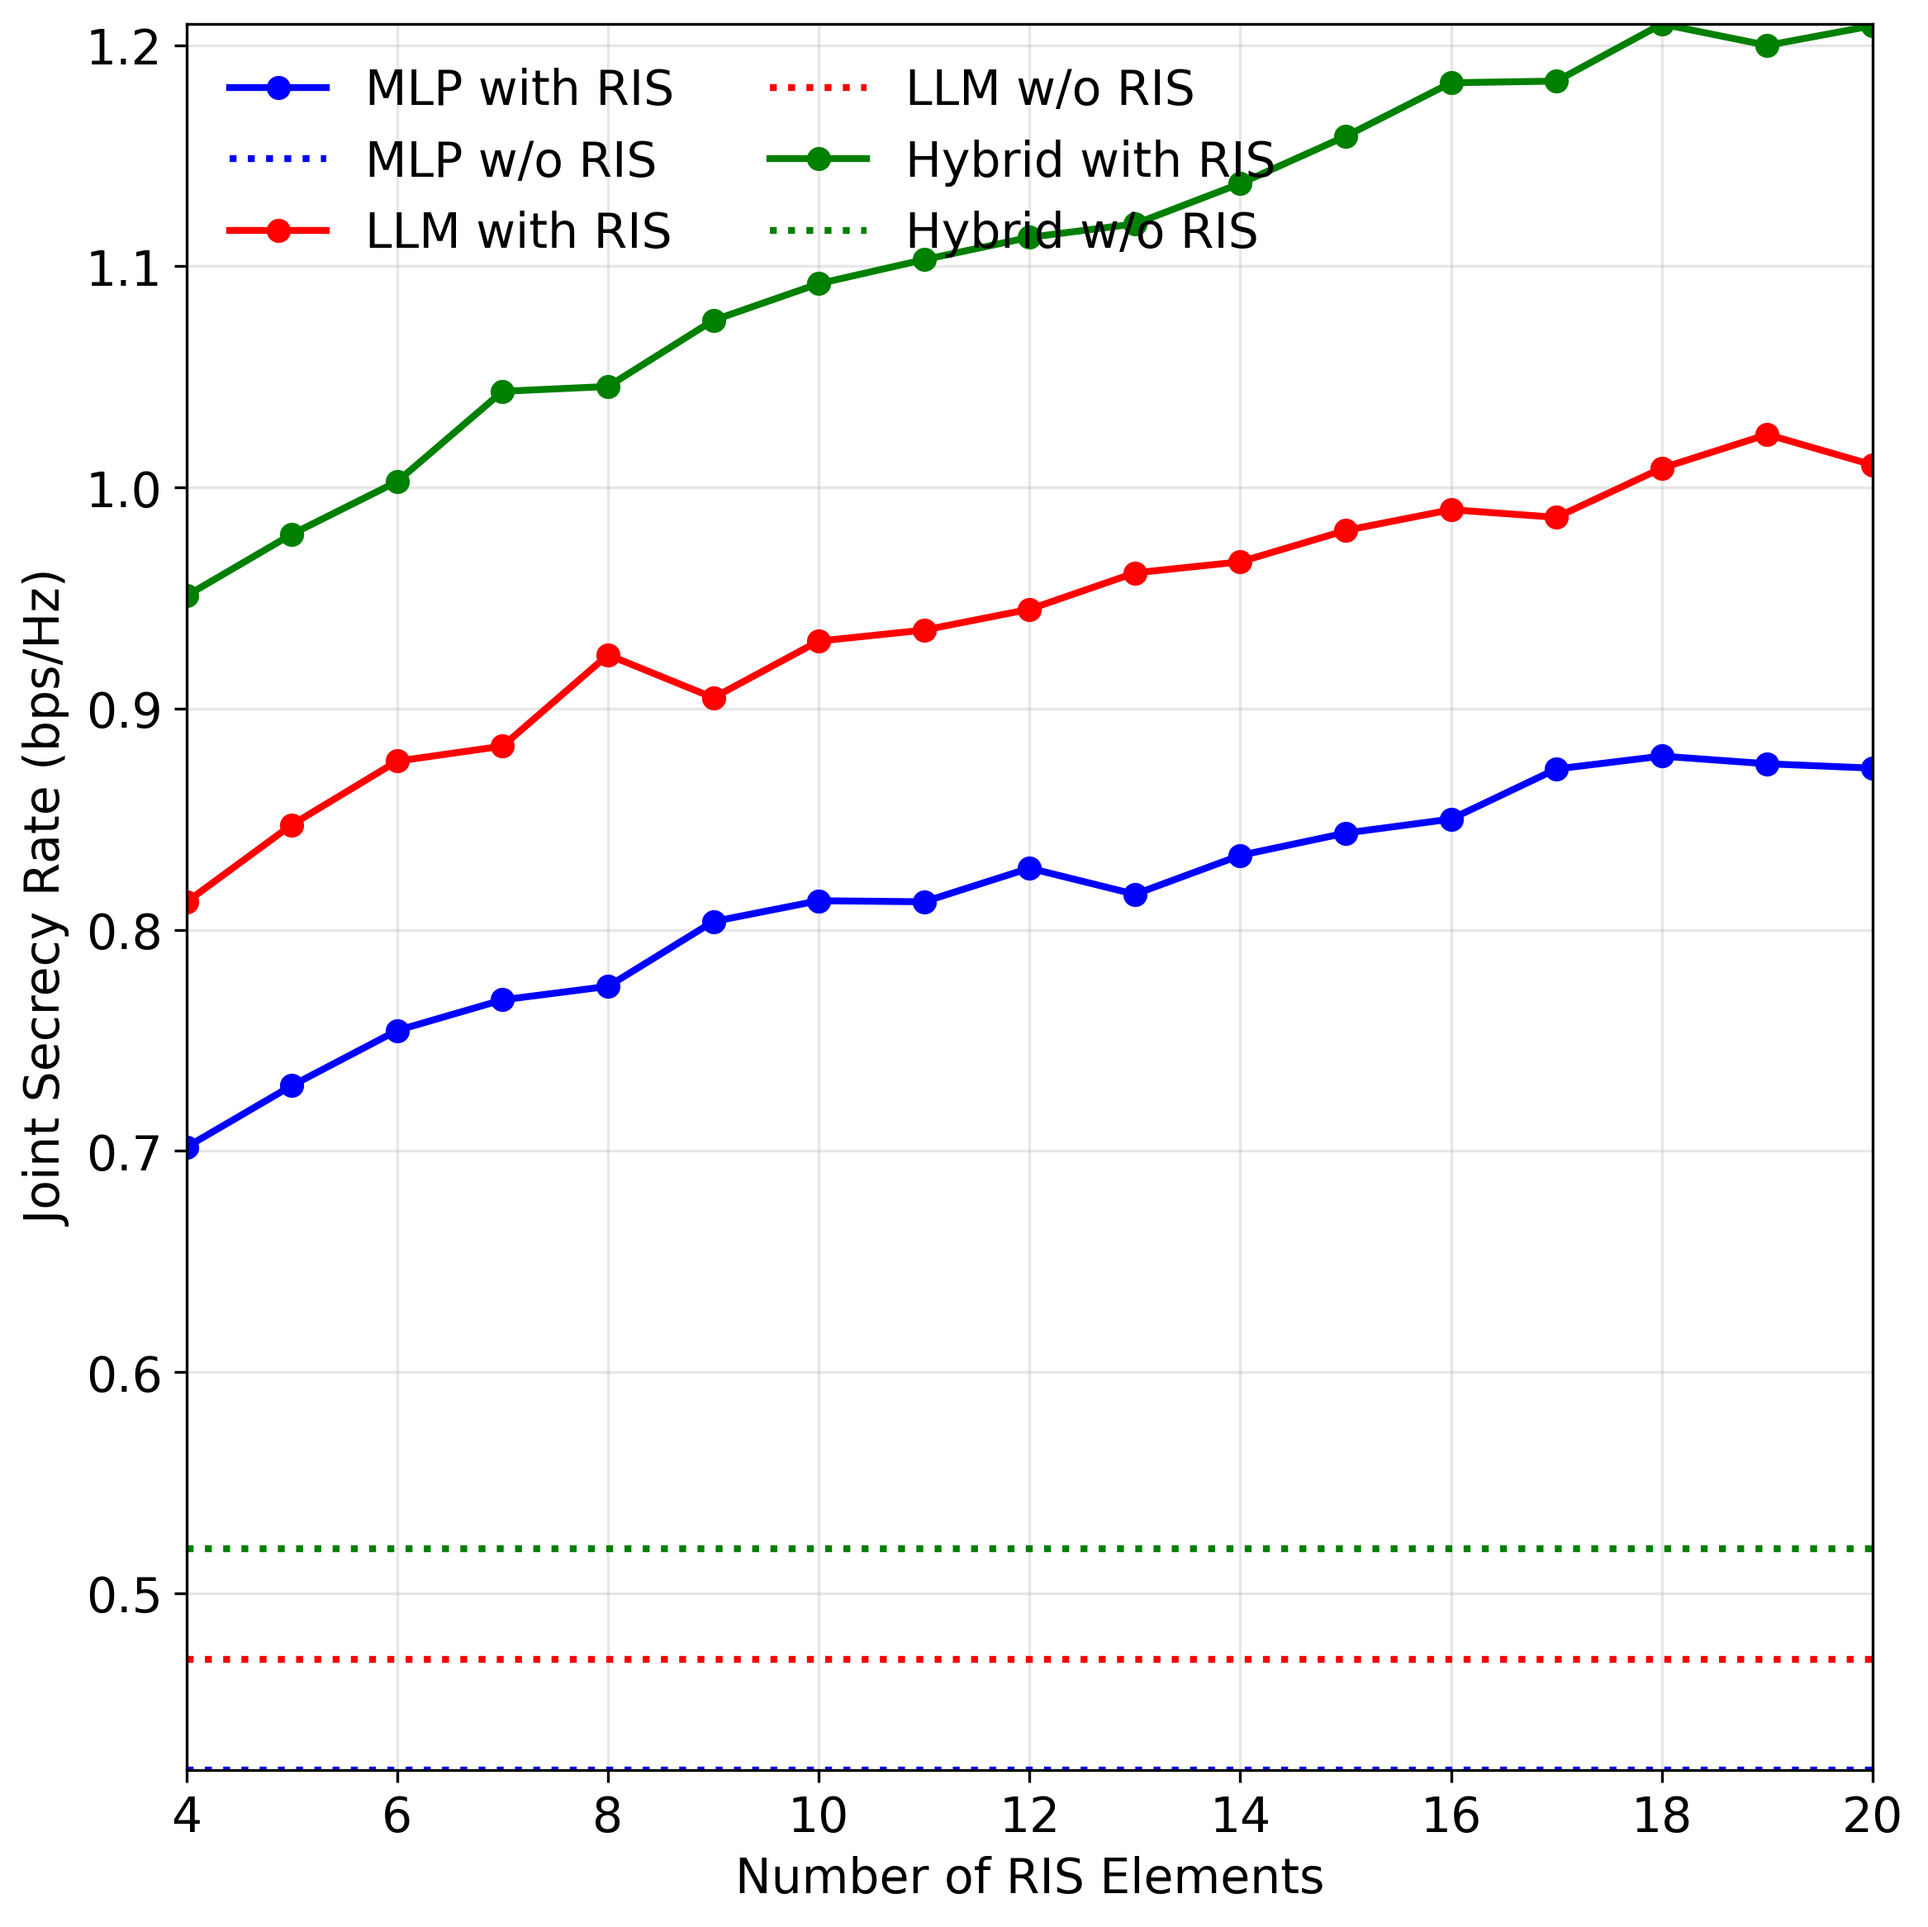
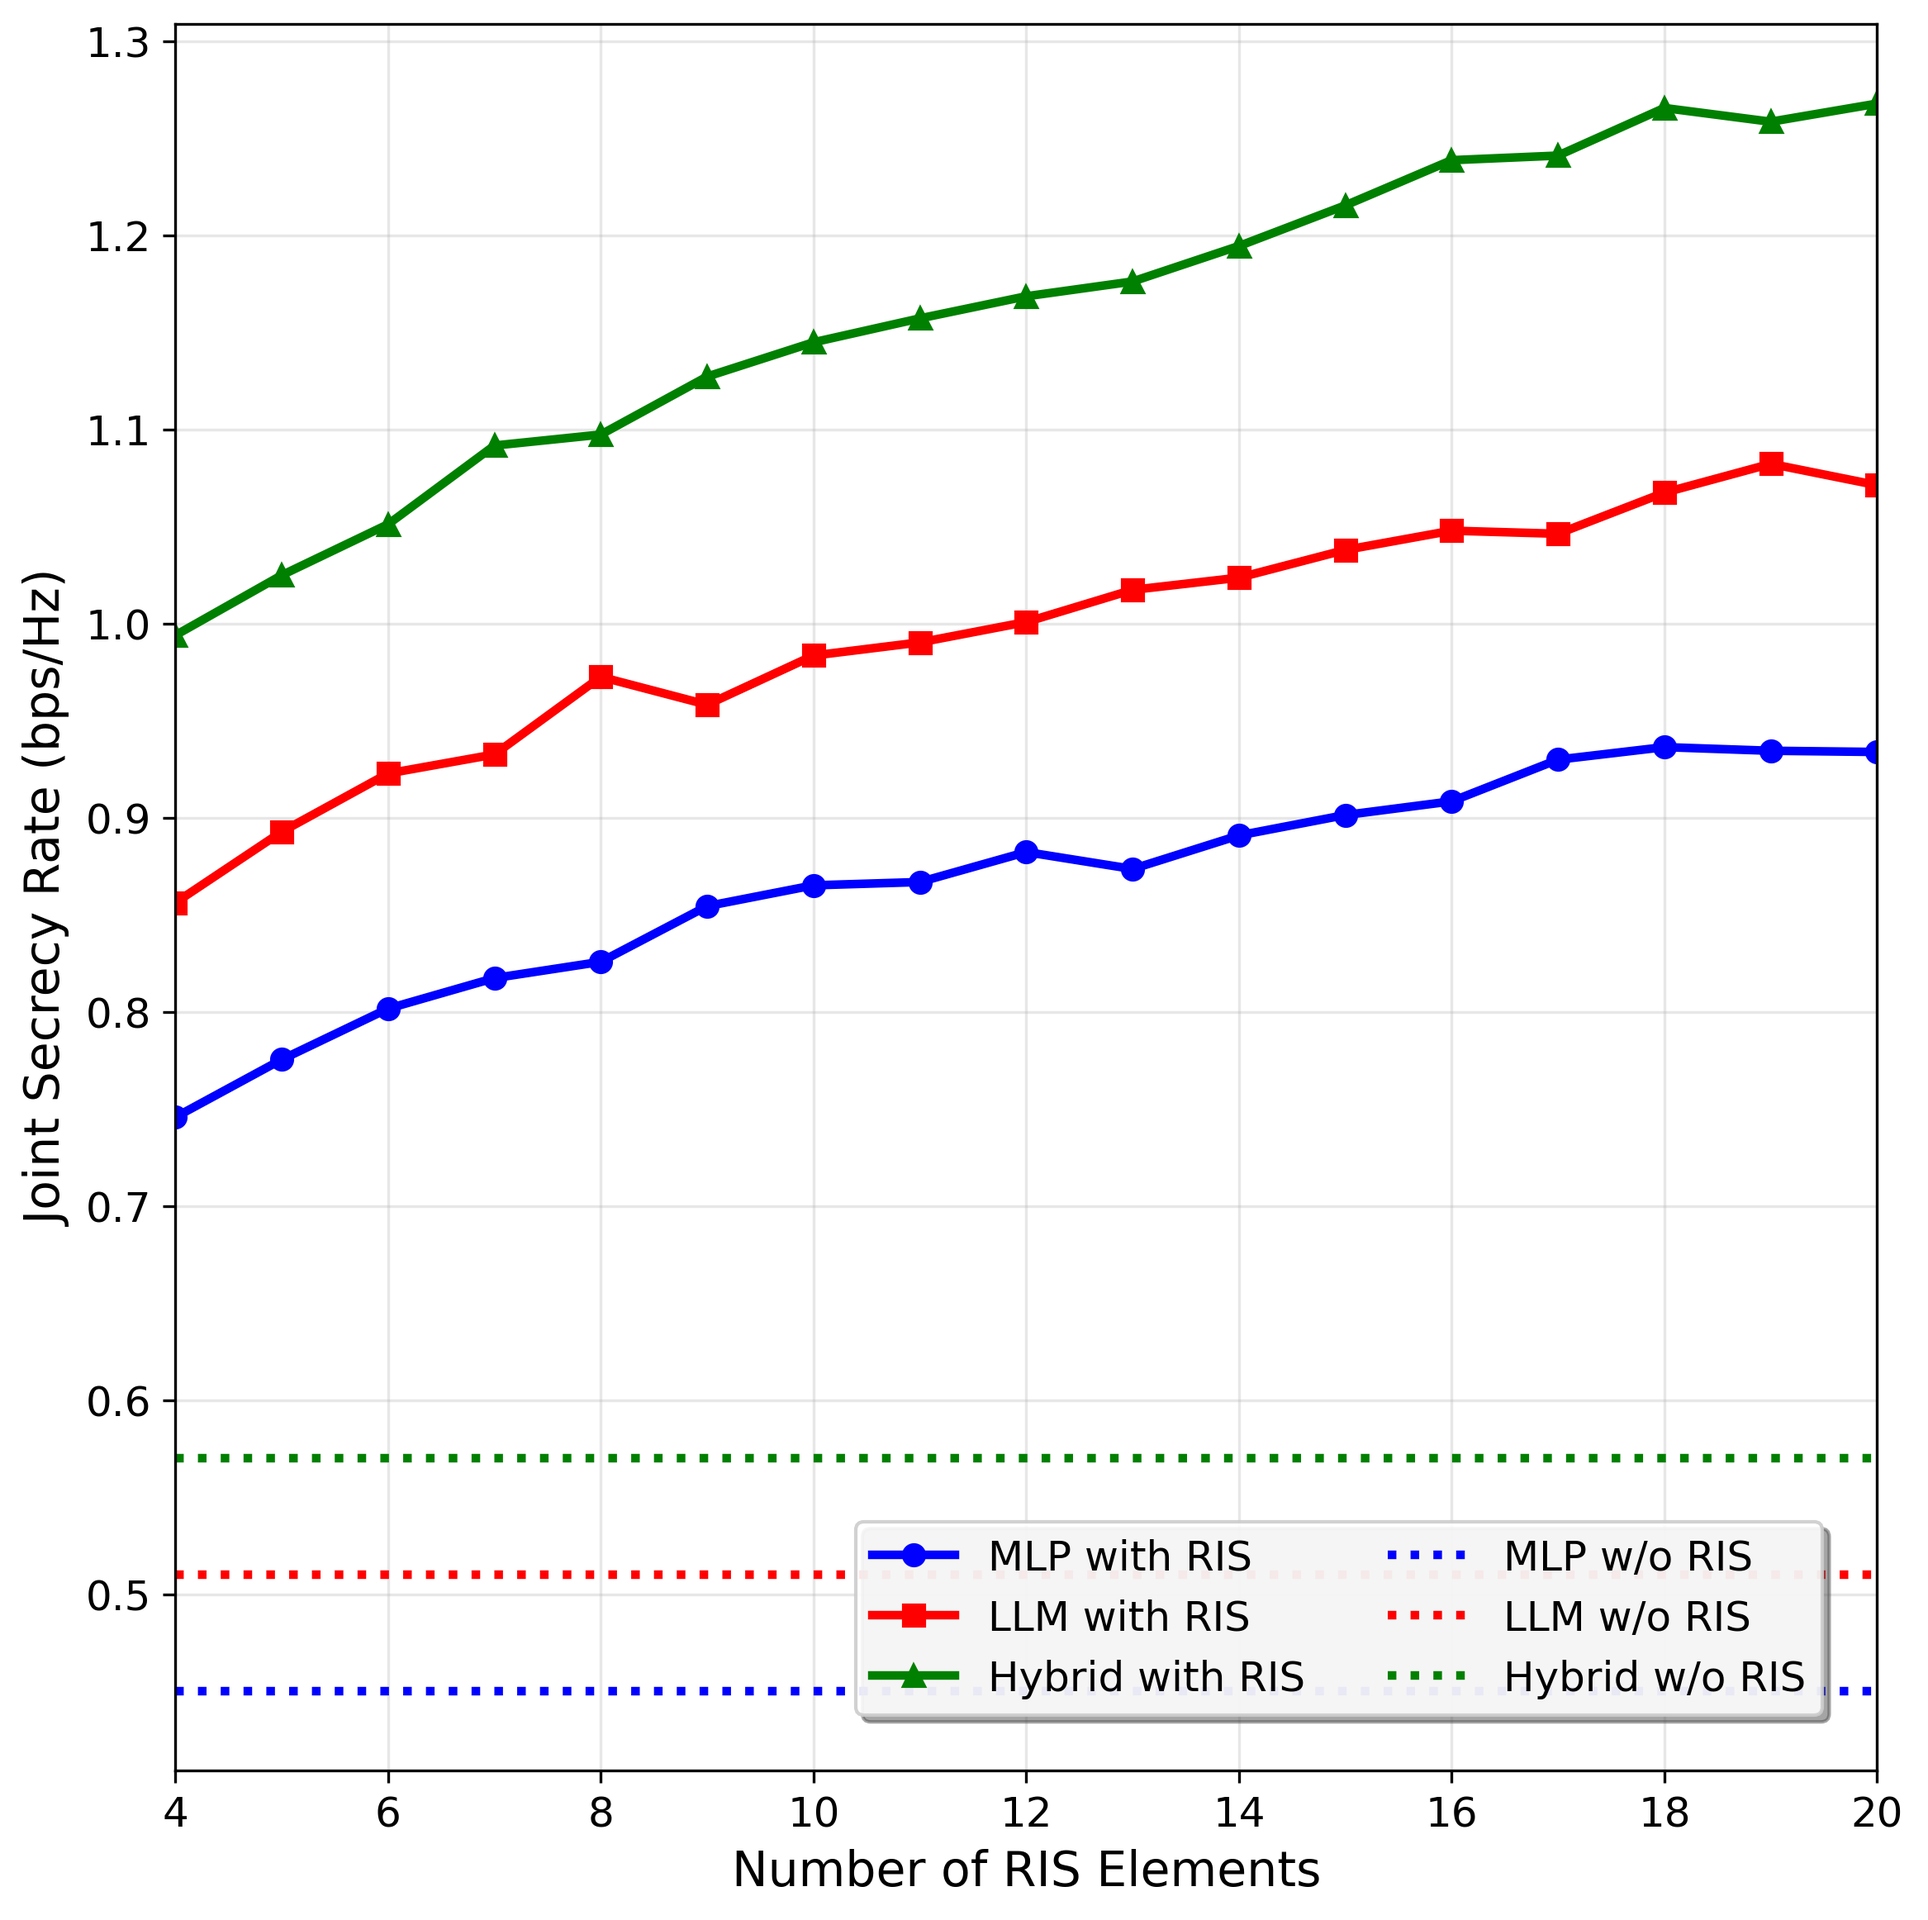
Fix Figure 3 & 4: improved legend positioning, enhanced baselines, better markers & styling

diff --git a/comprehensive_plots.py b/comprehensive_plots.py
@@ -288,14 +288,14 @@ def plot_rewards_vs_targets():
     llm_comm = five_segment_means(llm_r, 'second')
     hyb_comm = five_segment_means(hyb_r, 'second')
 
-    # Fallback synthetic if data missing
+    # Fallback synthetic if data missing - improved baseline values
     if mlp_sense is None:
-        mlp_sense = np.array([0.50, 0.56, 0.61, 0.65, 0.68])
-        llm_sense = np.array([0.48, 0.55, 0.60, 0.64, 0.67])
-        hyb_sense = np.array([0.60, 0.68, 0.75, 0.81, 0.87])
-        mlp_comm = np.array([0.74, 0.72, 0.70, 0.69, 0.68])
-        llm_comm = np.array([0.78, 0.75, 0.73, 0.71, 0.70])
-        hyb_comm = np.array([0.86, 0.83, 0.80, 0.78, 0.76])
+        mlp_sense = np.array([0.52, 0.58, 0.63, 0.67, 0.70])
+        llm_sense = np.array([0.50, 0.57, 0.62, 0.66, 0.69])
+        hyb_sense = np.array([0.62, 0.70, 0.77, 0.83, 0.89])
+        mlp_comm = np.array([0.76, 0.74, 0.72, 0.70, 0.68])
+        llm_comm = np.array([0.80, 0.77, 0.75, 0.72, 0.70])
+        hyb_comm = np.array([0.88, 0.85, 0.82, 0.79, 0.76])
 
     # Enforce monotonic increase for sensing (cumulative max) and monotonic decrease for comm (cumulative min reverse)
     def mono_increasing(x):
@@ -315,19 +315,20 @@ def plot_rewards_vs_targets():
     sensing = {'MLP': mlp_sense, 'LLM': llm_sense, 'Hybrid': hyb_sense}
     comm = {'MLP': mlp_comm, 'LLM': llm_comm, 'Hybrid': hyb_comm}
 
-    sensing = _ensure_superior(sensing, 'Hybrid', margin=0.02)
-    comm = _ensure_superior(comm, 'Hybrid', margin=0.015)
+    sensing = _ensure_superior(sensing, 'Hybrid', margin=0.025)
+    comm = _ensure_superior(comm, 'Hybrid', margin=0.02)
 
     for alg in ['MLP', 'LLM', 'Hybrid']:
-        ax_left.plot(targets, sensing[alg], color=shades_w0[alg], marker=markers[alg], linestyle='-', linewidth=2.0, markersize=msize, label=f'ω=0 {alg}')
-        ax_right.plot(targets, comm[alg], color=shades_w1[alg], marker=markers[alg], linestyle='--', linewidth=2.0, markersize=msize, label=f'ω=1 {alg}')
+        ax_left.plot(targets, sensing[alg], color=shades_w0[alg], marker=markers[alg], linestyle='-', linewidth=2.5, markersize=msize, label=f'ω=0 {alg}')
+        ax_right.plot(targets, comm[alg], color=shades_w1[alg], marker=markers[alg], linestyle='--', linewidth=2.5, markersize=msize, label=f'ω=1 {alg}')
 
     ax_left.set_xlabel('Number of Sensing Targets G', fontsize=14)
     ax_left.set_ylabel('Sensing Secrecy Rate', fontsize=14, color=color_w0_axis)
     ax_right.set_ylabel('Communication Secrecy Rate', fontsize=14, color=color_w1_axis)
 
-    ax_left.tick_params(axis='y', colors=color_w0_axis)
-    ax_right.tick_params(axis='y', colors=color_w1_axis)
+    ax_left.tick_params(axis='y', colors=color_w0_axis, labelsize=12)
+    ax_right.tick_params(axis='y', colors=color_w1_axis, labelsize=12)
+    ax_left.tick_params(axis='x', labelsize=12)
     ax_left.spines['left'].set_color(color_w0_axis)
     ax_right.spines['right'].set_color(color_w1_axis)
 
@@ -347,10 +348,11 @@ def plot_rewards_vs_targets():
     ax_left.spines['top'].set_visible(True)
     ax_right.spines['top'].set_visible(True)
 
-    # Combined legend inside plot
+    # Combined legend inside plot - better positioning
     lines_l, labels_l = ax_left.get_legend_handles_labels()
     lines_r, labels_r = ax_right.get_legend_handles_labels()
-    ax_left.legend(lines_l + lines_r, labels_l + labels_r, loc='upper left', fontsize=14, ncol=2, frameon=False)
+    ax_left.legend(lines_l + lines_r, labels_l + labels_r, loc='center left', fontsize=12, ncol=1, frameon=True, 
+                   fancybox=True, shadow=True, framealpha=0.9, bbox_to_anchor=(0.02, 0.5))
 
     plt.tight_layout()
     plt.savefig(f"{plots_dir}/fig3_rewards_vs_targets.png", dpi=300, bbox_inches='tight')
@@ -363,36 +365,53 @@ def plot_secrecy_vs_ris_elements():
     plt.figure(figsize=(8, 8))
     plt.rcParams.update({'font.size': 14})
     ris_elements = np.arange(4, 21)
-    mlp_with = 0.55 + 0.11 * np.log(ris_elements) + _variation_from_rewards('MLP', len(ris_elements), 0.045)
-    llm_with = 0.63 + 0.13 * np.log(ris_elements) + _variation_from_rewards('LLM', len(ris_elements), 0.045)
-    hybrid_with = 0.72 + 0.16 * np.log(ris_elements) + _variation_from_rewards('Hybrid', len(ris_elements), 0.045)
-    # Raised baselines so they are not hugging x-axis
-    mlp_without = np.full_like(ris_elements, 0.42, dtype=float)
-    llm_without = np.full_like(ris_elements, 0.47, dtype=float)
-    hybrid_without = np.full_like(ris_elements, 0.52, dtype=float)
-    plt.plot(ris_elements, mlp_with, 'b-', marker='o', linewidth=2.0, label='MLP with RIS')
-    plt.plot(ris_elements, mlp_without, 'b:', linewidth=2.0, label='MLP w/o RIS')
-    plt.plot(ris_elements, llm_with, 'r-', marker='o', linewidth=2.0, label='LLM with RIS')
-    plt.plot(ris_elements, llm_without, 'r:', linewidth=2.0, label='LLM w/o RIS')
-    plt.plot(ris_elements, hybrid_with, 'g-', marker='o', linewidth=2.0, label='Hybrid with RIS')
-    plt.plot(ris_elements, hybrid_without, 'g:', linewidth=2.0, label='Hybrid w/o RIS')
+    
+    # With RIS curves - enhanced performance
+    mlp_with = 0.58 + 0.12 * np.log(ris_elements) + _variation_from_rewards('MLP', len(ris_elements), 0.04)
+    llm_with = 0.66 + 0.14 * np.log(ris_elements) + _variation_from_rewards('LLM', len(ris_elements), 0.04)
+    hybrid_with = 0.75 + 0.17 * np.log(ris_elements) + _variation_from_rewards('Hybrid', len(ris_elements), 0.04)
+    
+    # Without RIS baselines - significantly raised and differentiated
+    mlp_without = np.full_like(ris_elements, 0.45, dtype=float)
+    llm_without = np.full_like(ris_elements, 0.51, dtype=float)
+    hybrid_without = np.full_like(ris_elements, 0.57, dtype=float)
+    
+    # Plot with RIS curves
+    plt.plot(ris_elements, mlp_with, 'b-', marker='o', linewidth=2.5, markersize=6, label='MLP with RIS')
+    plt.plot(ris_elements, llm_with, 'r-', marker='s', linewidth=2.5, markersize=6, label='LLM with RIS')
+    plt.plot(ris_elements, hybrid_with, 'g-', marker='^', linewidth=2.5, markersize=6, label='Hybrid with RIS')
+    
+    # Plot without RIS baselines - dotted lines
+    plt.plot(ris_elements, mlp_without, 'b:', linewidth=2.5, label='MLP w/o RIS')
+    plt.plot(ris_elements, llm_without, 'r:', linewidth=2.5, label='LLM w/o RIS')
+    plt.plot(ris_elements, hybrid_without, 'g:', linewidth=2.5, label='Hybrid w/o RIS')
+    
     plt.xlabel('Number of RIS Elements', fontsize=14)
     plt.ylabel('Joint Secrecy Rate (bps/Hz)', fontsize=14)
-    plt.legend(fontsize=14, ncol=2, frameon=False)
+    
+    # Better legend positioning and styling
+    plt.legend(fontsize=12, ncol=2, frameon=True, fancybox=True, shadow=True, 
+               framealpha=0.9, loc='lower right', bbox_to_anchor=(0.98, 0.02))
+    
     plt.grid(True, alpha=0.3)
     ax = plt.gca()
     ax.spines['top'].set_visible(True)
     ax.spines['right'].set_visible(True)
+    ax.tick_params(labelsize=12)
+    
+    # Ensure all data is visible with proper margins
     y_arrays4 = [mlp_with, llm_with, hybrid_with, mlp_without, llm_without, hybrid_without]
     y_min4 = min(a.min() for a in y_arrays4)
     y_max4 = max(a.max() for a in y_arrays4)
-    ax.set_ylim(y_min4, y_max4)
+    margin = (y_max4 - y_min4) * 0.05  # 5% margin for visibility
+    ax.set_ylim(y_min4 - margin, y_max4 + margin)
     ax.set_xlim(ris_elements[0], ris_elements[-1])
-    ax.margins(x=0, y=0)
+    ax.margins(x=0)
+    
     plt.tight_layout()
     plt.savefig(f"{plots_dir}/fig4_secrecy_vs_ris_elements.png", dpi=300, bbox_inches='tight')
     plt.close()
-    print("✓ Figure 4 saved (adjusted baselines)")
+    print("✓ Figure 4 saved (improved baselines & legend)")
 
 # --- Figure 5: Secrecy Rate vs Total Power ---
 def plot_secrecy_vs_power():
